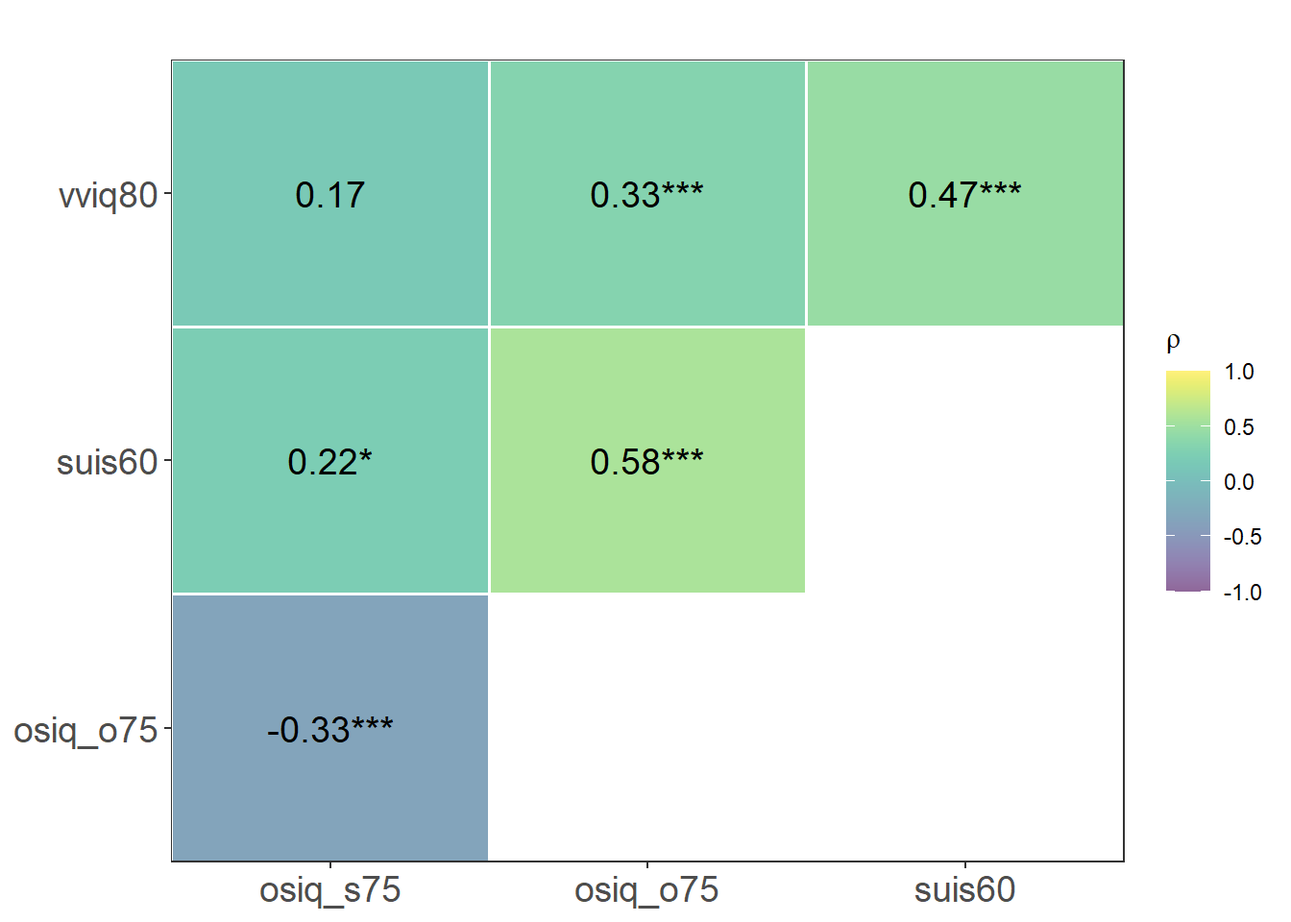
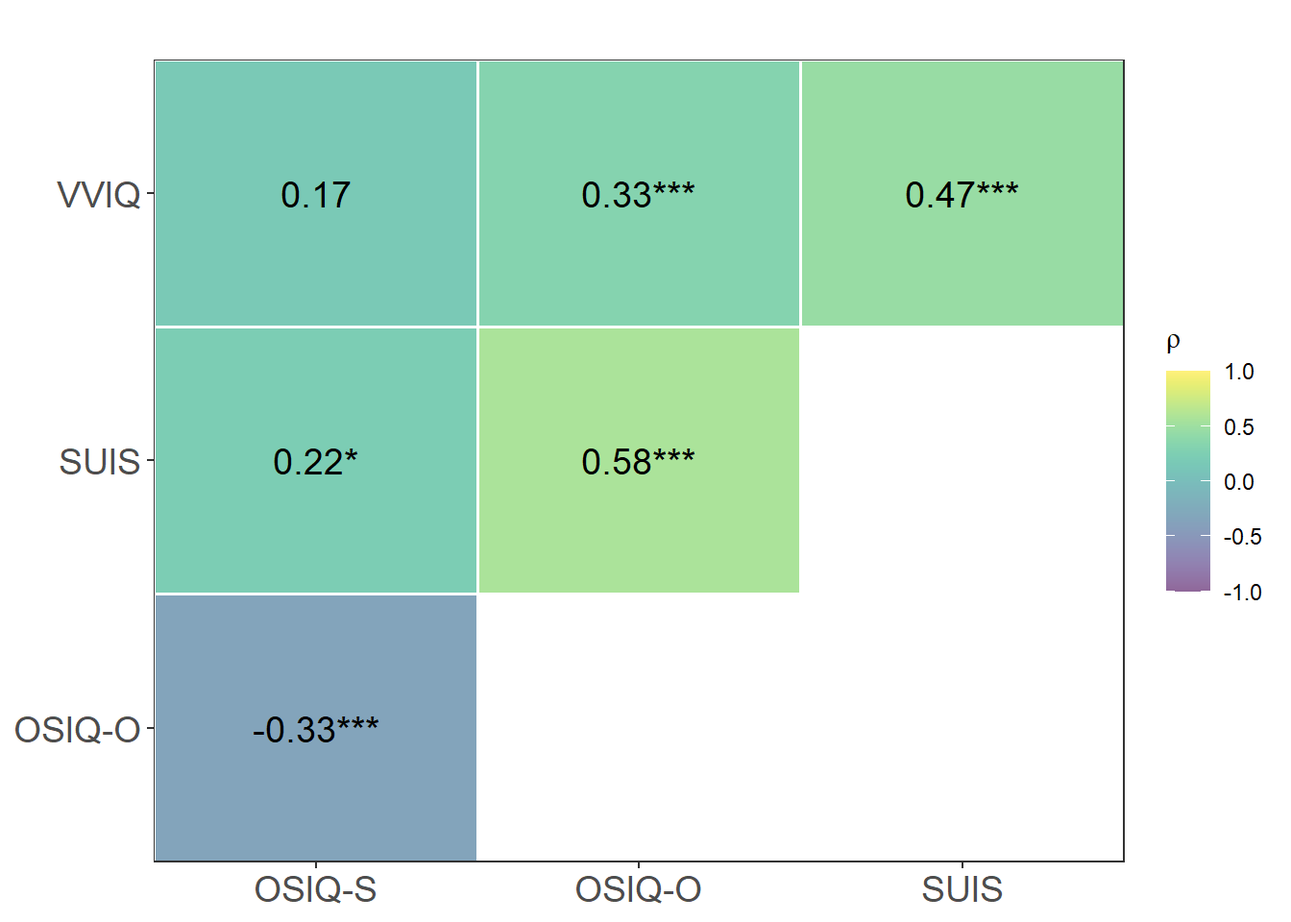
Corr still 230919

diff --git a/aphantasia_priming_analysis.html b/aphantasia_priming_analysis.html
@@ -153,80 +153,79 @@ code span.wa { color: #60a0b0; font-weight: bold; font-style: italic; } /* Warni
 <span id="cb1-16"><a href="#cb1-16" aria-hidden="true" tabindex="-1"></a>  broom,         <span class="co"># tidy modelling</span></span>
 <span id="cb1-17"><a href="#cb1-17" aria-hidden="true" tabindex="-1"></a>  easystats,      <span class="co"># framework for data analysis functions</span></span>
 <span id="cb1-18"><a href="#cb1-18" aria-hidden="true" tabindex="-1"></a>  brms,           <span class="co"># bayesian modeling</span></span>
-<span id="cb1-19"><a href="#cb1-19" aria-hidden="true" tabindex="-1"></a>  corrplot,</span>
-<span id="cb1-20"><a href="#cb1-20" aria-hidden="true" tabindex="-1"></a>  <span class="co"># MASS,           # Box-Cox transformation</span></span>
-<span id="cb1-21"><a href="#cb1-21" aria-hidden="true" tabindex="-1"></a>  <span class="co"># cluster,        # self-explanatory (i.e. cluster analyses)</span></span>
-<span id="cb1-22"><a href="#cb1-22" aria-hidden="true" tabindex="-1"></a>  <span class="co"># mclust,         # mixture clustering</span></span>
-<span id="cb1-23"><a href="#cb1-23" aria-hidden="true" tabindex="-1"></a>  <span class="co"># factoextra,     # multivariate analysis visualization</span></span>
-<span id="cb1-24"><a href="#cb1-24" aria-hidden="true" tabindex="-1"></a>  <span class="co"># FactoMineR,     # multivariate analysis</span></span>
-<span id="cb1-25"><a href="#cb1-25" aria-hidden="true" tabindex="-1"></a>  <span class="co"># rstanarm,       # bayesian models</span></span>
-<span id="cb1-26"><a href="#cb1-26" aria-hidden="true" tabindex="-1"></a>  <span class="co"># BayesFactor,    # self-explanatory (i.e. Bayes Factors)</span></span>
-<span id="cb1-27"><a href="#cb1-27" aria-hidden="true" tabindex="-1"></a>  <span class="co"># --- data visualization/exploration packages:</span></span>
-<span id="cb1-28"><a href="#cb1-28" aria-hidden="true" tabindex="-1"></a>  ggpubr,         <span class="co"># layout and statistics display</span></span>
-<span id="cb1-29"><a href="#cb1-29" aria-hidden="true" tabindex="-1"></a>  <span class="co"># ggradar,        # radar charts</span></span>
-<span id="cb1-30"><a href="#cb1-30" aria-hidden="true" tabindex="-1"></a>  ggsci,          <span class="co"># scientific palettes</span></span>
-<span id="cb1-31"><a href="#cb1-31" aria-hidden="true" tabindex="-1"></a>  wesanderson,    <span class="co"># artistic palettes</span></span>
-<span id="cb1-32"><a href="#cb1-32" aria-hidden="true" tabindex="-1"></a>  viridis,        <span class="co"># colour-blind friendly palettes</span></span>
-<span id="cb1-33"><a href="#cb1-33" aria-hidden="true" tabindex="-1"></a>  tidygraph,</span>
-<span id="cb1-34"><a href="#cb1-34" aria-hidden="true" tabindex="-1"></a>  ggraph,</span>
-<span id="cb1-35"><a href="#cb1-35" aria-hidden="true" tabindex="-1"></a>  <span class="co"># --- tables ---</span></span>
-<span id="cb1-36"><a href="#cb1-36" aria-hidden="true" tabindex="-1"></a>  <span class="co"># qwraps2,        # mean_sd function</span></span>
-<span id="cb1-37"><a href="#cb1-37" aria-hidden="true" tabindex="-1"></a>  <span class="co"># the basics</span></span>
-<span id="cb1-38"><a href="#cb1-38" aria-hidden="true" tabindex="-1"></a>  tidyverse</span>
-<span id="cb1-39"><a href="#cb1-39" aria-hidden="true" tabindex="-1"></a>)</span>
-<span id="cb1-40"><a href="#cb1-40" aria-hidden="true" tabindex="-1"></a></span>
-<span id="cb1-41"><a href="#cb1-41" aria-hidden="true" tabindex="-1"></a><span class="co"># --- Global cosmetic theme ----------------------------------------------------</span></span>
-<span id="cb1-42"><a href="#cb1-42" aria-hidden="true" tabindex="-1"></a><span class="fu">theme_set</span>(</span>
-<span id="cb1-43"><a href="#cb1-43" aria-hidden="true" tabindex="-1"></a>  <span class="fu">theme_bw</span>(</span>
-<span id="cb1-44"><a href="#cb1-44" aria-hidden="true" tabindex="-1"></a>    <span class="at">base_size =</span> <span class="dv">14</span>,</span>
-<span id="cb1-45"><a href="#cb1-45" aria-hidden="true" tabindex="-1"></a>    <span class="co"># base_family = "serif",</span></span>
-<span id="cb1-46"><a href="#cb1-46" aria-hidden="true" tabindex="-1"></a>  )</span>
-<span id="cb1-47"><a href="#cb1-47" aria-hidden="true" tabindex="-1"></a>)</span>
-<span id="cb1-48"><a href="#cb1-48" aria-hidden="true" tabindex="-1"></a></span>
-<span id="cb1-49"><a href="#cb1-49" aria-hidden="true" tabindex="-1"></a><span class="co"># creating colour-blind friendly coulour palettes</span></span>
-<span id="cb1-50"><a href="#cb1-50" aria-hidden="true" tabindex="-1"></a><span class="co"># duo_pal &lt;- c("#003d73", "#889be0")</span></span>
-<span id="cb1-51"><a href="#cb1-51" aria-hidden="true" tabindex="-1"></a><span class="co"># trio_pal &lt;- c("#f2bb7b", "#e57774", "#6c0009")</span></span>
-<span id="cb1-52"><a href="#cb1-52" aria-hidden="true" tabindex="-1"></a><span class="co"># full_pal &lt;- c("#f2bb7b", "#e57774", "#6c0009", "#003d73", "#889be0")</span></span>
-<span id="cb1-53"><a href="#cb1-53" aria-hidden="true" tabindex="-1"></a></span>
-<span id="cb1-54"><a href="#cb1-54" aria-hidden="true" tabindex="-1"></a><span class="co"># table formatting</span></span>
-<span id="cb1-55"><a href="#cb1-55" aria-hidden="true" tabindex="-1"></a><span class="co"># options(qwraps2_markup = "")</span></span>
-<span id="cb1-56"><a href="#cb1-56" aria-hidden="true" tabindex="-1"></a><span class="co"># options(</span></span>
-<span id="cb1-57"><a href="#cb1-57" aria-hidden="true" tabindex="-1"></a><span class="co">#   knitr.kable.NA = '',</span></span>
-<span id="cb1-58"><a href="#cb1-58" aria-hidden="true" tabindex="-1"></a><span class="co">#   knitr.table.format = "markdown")</span></span>
-<span id="cb1-59"><a href="#cb1-59" aria-hidden="true" tabindex="-1"></a></span>
-<span id="cb1-60"><a href="#cb1-60" aria-hidden="true" tabindex="-1"></a><span class="co"># --- Fixing a seed for reproducibility ----------------------------------------</span></span>
-<span id="cb1-61"><a href="#cb1-61" aria-hidden="true" tabindex="-1"></a><span class="fu">set.seed</span>(<span class="dv">14051998</span>)</span>
-<span id="cb1-62"><a href="#cb1-62" aria-hidden="true" tabindex="-1"></a></span>
-<span id="cb1-63"><a href="#cb1-63" aria-hidden="true" tabindex="-1"></a><span class="co"># --- Importing data -----------------------------------------------------------</span></span>
-<span id="cb1-64"><a href="#cb1-64" aria-hidden="true" tabindex="-1"></a></span>
-<span id="cb1-65"><a href="#cb1-65" aria-hidden="true" tabindex="-1"></a><span class="co"># Association task</span></span>
-<span id="cb1-66"><a href="#cb1-66" aria-hidden="true" tabindex="-1"></a>df_asso <span class="ot">&lt;-</span> <span class="fu">read_excel</span>(<span class="st">"data/aphantasia_priming_tidy_data.xlsx"</span>, </span>
-<span id="cb1-67"><a href="#cb1-67" aria-hidden="true" tabindex="-1"></a>                     <span class="at">sheet =</span> <span class="st">"data_asso"</span>)</span>
-<span id="cb1-68"><a href="#cb1-68" aria-hidden="true" tabindex="-1"></a></span>
-<span id="cb1-69"><a href="#cb1-69" aria-hidden="true" tabindex="-1"></a><span class="co"># Implicit task</span></span>
-<span id="cb1-70"><a href="#cb1-70" aria-hidden="true" tabindex="-1"></a>df_implicit <span class="ot">&lt;-</span> <span class="fu">read_excel</span>(<span class="st">"data/aphantasia_priming_tidy_data.xlsx"</span>, </span>
-<span id="cb1-71"><a href="#cb1-71" aria-hidden="true" tabindex="-1"></a>                     <span class="at">sheet =</span> <span class="st">"data_implicit"</span>)</span>
-<span id="cb1-72"><a href="#cb1-72" aria-hidden="true" tabindex="-1"></a></span>
-<span id="cb1-73"><a href="#cb1-73" aria-hidden="true" tabindex="-1"></a><span class="co"># Explicit task</span></span>
-<span id="cb1-74"><a href="#cb1-74" aria-hidden="true" tabindex="-1"></a>df_explicit <span class="ot">&lt;-</span> <span class="fu">read_excel</span>(<span class="st">"data/aphantasia_priming_tidy_data.xlsx"</span>, </span>
-<span id="cb1-75"><a href="#cb1-75" aria-hidden="true" tabindex="-1"></a>                     <span class="at">sheet =</span> <span class="st">"data_explicit"</span>)</span>
-<span id="cb1-76"><a href="#cb1-76" aria-hidden="true" tabindex="-1"></a></span>
-<span id="cb1-77"><a href="#cb1-77" aria-hidden="true" tabindex="-1"></a><span class="co"># Rotation task</span></span>
-<span id="cb1-78"><a href="#cb1-78" aria-hidden="true" tabindex="-1"></a>df_rotation <span class="ot">&lt;-</span> <span class="fu">read_excel</span>(<span class="st">"data/aphantasia_priming_tidy_data.xlsx"</span>, </span>
-<span id="cb1-79"><a href="#cb1-79" aria-hidden="true" tabindex="-1"></a>                     <span class="at">sheet =</span> <span class="st">"data_rotation"</span>)</span>
-<span id="cb1-80"><a href="#cb1-80" aria-hidden="true" tabindex="-1"></a></span>
-<span id="cb1-81"><a href="#cb1-81" aria-hidden="true" tabindex="-1"></a><span class="co"># Questionnaires</span></span>
-<span id="cb1-82"><a href="#cb1-82" aria-hidden="true" tabindex="-1"></a>df_questionnaires <span class="ot">&lt;-</span> <span class="fu">read_excel</span>(<span class="st">"data/aphantasia_priming_tidy_data.xlsx"</span>, </span>
-<span id="cb1-83"><a href="#cb1-83" aria-hidden="true" tabindex="-1"></a>                     <span class="at">sheet =</span> <span class="st">"data_questionnaires"</span>)</span></code><button title="Copy to Clipboard" class="code-copy-button"><i class="bi"></i></button></pre></div>
+<span id="cb1-19"><a href="#cb1-19" aria-hidden="true" tabindex="-1"></a>  <span class="co"># MASS,           # Box-Cox transformation</span></span>
+<span id="cb1-20"><a href="#cb1-20" aria-hidden="true" tabindex="-1"></a>  <span class="co"># cluster,        # self-explanatory (i.e. cluster analyses)</span></span>
+<span id="cb1-21"><a href="#cb1-21" aria-hidden="true" tabindex="-1"></a>  <span class="co"># mclust,         # mixture clustering</span></span>
+<span id="cb1-22"><a href="#cb1-22" aria-hidden="true" tabindex="-1"></a>  <span class="co"># factoextra,     # multivariate analysis visualization</span></span>
+<span id="cb1-23"><a href="#cb1-23" aria-hidden="true" tabindex="-1"></a>  <span class="co"># FactoMineR,     # multivariate analysis</span></span>
+<span id="cb1-24"><a href="#cb1-24" aria-hidden="true" tabindex="-1"></a>  <span class="co"># rstanarm,       # bayesian models</span></span>
+<span id="cb1-25"><a href="#cb1-25" aria-hidden="true" tabindex="-1"></a>  <span class="co"># BayesFactor,    # self-explanatory (i.e. Bayes Factors)</span></span>
+<span id="cb1-26"><a href="#cb1-26" aria-hidden="true" tabindex="-1"></a>  <span class="co"># --- data visualization/exploration packages:</span></span>
+<span id="cb1-27"><a href="#cb1-27" aria-hidden="true" tabindex="-1"></a>  ggpubr,         <span class="co"># layout and statistics display</span></span>
+<span id="cb1-28"><a href="#cb1-28" aria-hidden="true" tabindex="-1"></a>  <span class="co"># ggradar,        # radar charts</span></span>
+<span id="cb1-29"><a href="#cb1-29" aria-hidden="true" tabindex="-1"></a>  ggsci,          <span class="co"># scientific palettes</span></span>
+<span id="cb1-30"><a href="#cb1-30" aria-hidden="true" tabindex="-1"></a>  wesanderson,    <span class="co"># artistic palettes</span></span>
+<span id="cb1-31"><a href="#cb1-31" aria-hidden="true" tabindex="-1"></a>  viridis,        <span class="co"># colour-blind friendly palettes</span></span>
+<span id="cb1-32"><a href="#cb1-32" aria-hidden="true" tabindex="-1"></a>  tidygraph,</span>
+<span id="cb1-33"><a href="#cb1-33" aria-hidden="true" tabindex="-1"></a>  ggraph,</span>
+<span id="cb1-34"><a href="#cb1-34" aria-hidden="true" tabindex="-1"></a>  <span class="co"># --- tables ---</span></span>
+<span id="cb1-35"><a href="#cb1-35" aria-hidden="true" tabindex="-1"></a>  <span class="co"># qwraps2,        # mean_sd function</span></span>
+<span id="cb1-36"><a href="#cb1-36" aria-hidden="true" tabindex="-1"></a>  <span class="co"># the basics</span></span>
+<span id="cb1-37"><a href="#cb1-37" aria-hidden="true" tabindex="-1"></a>  tidyverse</span>
+<span id="cb1-38"><a href="#cb1-38" aria-hidden="true" tabindex="-1"></a>)</span>
+<span id="cb1-39"><a href="#cb1-39" aria-hidden="true" tabindex="-1"></a></span>
+<span id="cb1-40"><a href="#cb1-40" aria-hidden="true" tabindex="-1"></a><span class="co"># --- Global cosmetic theme ----------------------------------------------------</span></span>
+<span id="cb1-41"><a href="#cb1-41" aria-hidden="true" tabindex="-1"></a><span class="fu">theme_set</span>(</span>
+<span id="cb1-42"><a href="#cb1-42" aria-hidden="true" tabindex="-1"></a>  <span class="fu">theme_bw</span>(</span>
+<span id="cb1-43"><a href="#cb1-43" aria-hidden="true" tabindex="-1"></a>    <span class="at">base_size =</span> <span class="dv">14</span>,</span>
+<span id="cb1-44"><a href="#cb1-44" aria-hidden="true" tabindex="-1"></a>    <span class="co"># base_family = "serif",</span></span>
+<span id="cb1-45"><a href="#cb1-45" aria-hidden="true" tabindex="-1"></a>  )</span>
+<span id="cb1-46"><a href="#cb1-46" aria-hidden="true" tabindex="-1"></a>)</span>
+<span id="cb1-47"><a href="#cb1-47" aria-hidden="true" tabindex="-1"></a></span>
+<span id="cb1-48"><a href="#cb1-48" aria-hidden="true" tabindex="-1"></a><span class="co"># creating colour-blind friendly coulour palettes</span></span>
+<span id="cb1-49"><a href="#cb1-49" aria-hidden="true" tabindex="-1"></a><span class="co"># duo_pal &lt;- c("#003d73", "#889be0")</span></span>
+<span id="cb1-50"><a href="#cb1-50" aria-hidden="true" tabindex="-1"></a><span class="co"># trio_pal &lt;- c("#f2bb7b", "#e57774", "#6c0009")</span></span>
+<span id="cb1-51"><a href="#cb1-51" aria-hidden="true" tabindex="-1"></a><span class="co"># full_pal &lt;- c("#f2bb7b", "#e57774", "#6c0009", "#003d73", "#889be0")</span></span>
+<span id="cb1-52"><a href="#cb1-52" aria-hidden="true" tabindex="-1"></a></span>
+<span id="cb1-53"><a href="#cb1-53" aria-hidden="true" tabindex="-1"></a><span class="co"># table formatting</span></span>
+<span id="cb1-54"><a href="#cb1-54" aria-hidden="true" tabindex="-1"></a><span class="co"># options(qwraps2_markup = "")</span></span>
+<span id="cb1-55"><a href="#cb1-55" aria-hidden="true" tabindex="-1"></a><span class="co"># options(</span></span>
+<span id="cb1-56"><a href="#cb1-56" aria-hidden="true" tabindex="-1"></a><span class="co">#   knitr.kable.NA = '',</span></span>
+<span id="cb1-57"><a href="#cb1-57" aria-hidden="true" tabindex="-1"></a><span class="co">#   knitr.table.format = "markdown")</span></span>
+<span id="cb1-58"><a href="#cb1-58" aria-hidden="true" tabindex="-1"></a></span>
+<span id="cb1-59"><a href="#cb1-59" aria-hidden="true" tabindex="-1"></a><span class="co"># --- Fixing a seed for reproducibility ----------------------------------------</span></span>
+<span id="cb1-60"><a href="#cb1-60" aria-hidden="true" tabindex="-1"></a><span class="fu">set.seed</span>(<span class="dv">14051998</span>)</span>
+<span id="cb1-61"><a href="#cb1-61" aria-hidden="true" tabindex="-1"></a></span>
+<span id="cb1-62"><a href="#cb1-62" aria-hidden="true" tabindex="-1"></a><span class="co"># --- Importing data -----------------------------------------------------------</span></span>
+<span id="cb1-63"><a href="#cb1-63" aria-hidden="true" tabindex="-1"></a></span>
+<span id="cb1-64"><a href="#cb1-64" aria-hidden="true" tabindex="-1"></a><span class="co"># Association task</span></span>
+<span id="cb1-65"><a href="#cb1-65" aria-hidden="true" tabindex="-1"></a>df_asso <span class="ot">&lt;-</span> <span class="fu">read_excel</span>(<span class="st">"data/aphantasia_priming_tidy_data.xlsx"</span>, </span>
+<span id="cb1-66"><a href="#cb1-66" aria-hidden="true" tabindex="-1"></a>                     <span class="at">sheet =</span> <span class="st">"data_asso"</span>)</span>
+<span id="cb1-67"><a href="#cb1-67" aria-hidden="true" tabindex="-1"></a></span>
+<span id="cb1-68"><a href="#cb1-68" aria-hidden="true" tabindex="-1"></a><span class="co"># Implicit task</span></span>
+<span id="cb1-69"><a href="#cb1-69" aria-hidden="true" tabindex="-1"></a>df_implicit <span class="ot">&lt;-</span> <span class="fu">read_excel</span>(<span class="st">"data/aphantasia_priming_tidy_data.xlsx"</span>, </span>
+<span id="cb1-70"><a href="#cb1-70" aria-hidden="true" tabindex="-1"></a>                     <span class="at">sheet =</span> <span class="st">"data_implicit"</span>)</span>
+<span id="cb1-71"><a href="#cb1-71" aria-hidden="true" tabindex="-1"></a></span>
+<span id="cb1-72"><a href="#cb1-72" aria-hidden="true" tabindex="-1"></a><span class="co"># Explicit task</span></span>
+<span id="cb1-73"><a href="#cb1-73" aria-hidden="true" tabindex="-1"></a>df_explicit <span class="ot">&lt;-</span> <span class="fu">read_excel</span>(<span class="st">"data/aphantasia_priming_tidy_data.xlsx"</span>, </span>
+<span id="cb1-74"><a href="#cb1-74" aria-hidden="true" tabindex="-1"></a>                     <span class="at">sheet =</span> <span class="st">"data_explicit"</span>)</span>
+<span id="cb1-75"><a href="#cb1-75" aria-hidden="true" tabindex="-1"></a></span>
+<span id="cb1-76"><a href="#cb1-76" aria-hidden="true" tabindex="-1"></a><span class="co"># Rotation task</span></span>
+<span id="cb1-77"><a href="#cb1-77" aria-hidden="true" tabindex="-1"></a>df_rotation <span class="ot">&lt;-</span> <span class="fu">read_excel</span>(<span class="st">"data/aphantasia_priming_tidy_data.xlsx"</span>, </span>
+<span id="cb1-78"><a href="#cb1-78" aria-hidden="true" tabindex="-1"></a>                     <span class="at">sheet =</span> <span class="st">"data_rotation"</span>)</span>
+<span id="cb1-79"><a href="#cb1-79" aria-hidden="true" tabindex="-1"></a></span>
+<span id="cb1-80"><a href="#cb1-80" aria-hidden="true" tabindex="-1"></a><span class="co"># Questionnaires</span></span>
+<span id="cb1-81"><a href="#cb1-81" aria-hidden="true" tabindex="-1"></a>df_questionnaires <span class="ot">&lt;-</span> <span class="fu">read_excel</span>(<span class="st">"data/aphantasia_priming_tidy_data.xlsx"</span>, </span>
+<span id="cb1-82"><a href="#cb1-82" aria-hidden="true" tabindex="-1"></a>                     <span class="at">sheet =</span> <span class="st">"data_questionnaires"</span>)</span></code><button title="Copy to Clipboard" class="code-copy-button"><i class="bi"></i></button></pre></div>
 </details>
 </div>
 <section id="exploratory-data-analysis" class="level2">
 <h2 class="anchored" data-anchor-id="exploratory-data-analysis">Exploratory Data Analysis</h2>
-<p>The four questionnaire variables (VVIQ, OSIQ-O and S, and SUIS) are meant to be used as predictors (independent variables) for the behavioural outcomes (dependent variables, RTs and potentially accuracy) of the study. Three of these - VVIQ, OSIQ-O and SUIS - evaluate visual imagery: as such, in a view of parsimony, we are going to evaluate the correlation between these continuous predictors and judge if they should be merged/omitted. The results of the Bayesian Pearson correlations between the four variables are displayed in <a href="#fig-cor_matrix">Figure&nbsp;1</a> and <a href="#tbl-cor_stats">Table&nbsp;1</a>.</p>
+<p>The four questionnaire variables (VVIQ, OSIQ-O and S, and SUIS) are meant to be used as predictors (independent variables) for the behavioural outcomes (dependent variables, RTs and potentially accuracy) of the study. Three of these - VVIQ, OSIQ-O and SUIS - evaluate visual imagery: as such, in a view of parsimony, we are going to evaluate the correlation between these continuous predictors and judge if they should be merged/omitted. The results of the Bayesian partial correlations between the four variables are displayed in <a href="#fig-cor_matrix">Figure&nbsp;1</a> and <a href="#tbl-cor_stats">Table&nbsp;1</a>. Partial correlations have been chosen here to account for the (theoretically huge) covariance between visual imagery variables. It will result in a more conservative estimations of the correlations, and a better understanding of the relations between visual and spatial imagery measures.</p>
 <div class="cell">
 <details>
 <summary>Code</summary>
-<div class="sourceCode cell-code" id="cb2"><pre class="sourceCode r code-with-copy"><code class="sourceCode r"><span id="cb2-1"><a href="#cb2-1" aria-hidden="true" tabindex="-1"></a><span class="co"># Bayesian Pearson correlation between questionnaire scores</span></span>
+<div class="sourceCode cell-code" id="cb2"><pre class="sourceCode r code-with-copy"><code class="sourceCode r"><span id="cb2-1"><a href="#cb2-1" aria-hidden="true" tabindex="-1"></a><span class="co"># --- Bayesian Pearson correlation between questionnaire scores ----------------</span></span>
 <span id="cb2-2"><a href="#cb2-2" aria-hidden="true" tabindex="-1"></a>cor_questionnaires <span class="ot">&lt;-</span></span>
 <span id="cb2-3"><a href="#cb2-3" aria-hidden="true" tabindex="-1"></a>  df_questionnaires <span class="sc">%&gt;%</span></span>
 <span id="cb2-4"><a href="#cb2-4" aria-hidden="true" tabindex="-1"></a>  <span class="fu">correlation</span>(</span>
@@ -238,24 +237,37 @@ code span.wa { color: #60a0b0; font-weight: bold; font-style: italic; } /* Warni
 <span id="cb2-10"><a href="#cb2-10" aria-hidden="true" tabindex="-1"></a>    <span class="at">bayesian_test =</span> <span class="st">"bf"</span></span>
 <span id="cb2-11"><a href="#cb2-11" aria-hidden="true" tabindex="-1"></a>    )</span>
 <span id="cb2-12"><a href="#cb2-12" aria-hidden="true" tabindex="-1"></a></span>
-<span id="cb2-13"><a href="#cb2-13" aria-hidden="true" tabindex="-1"></a>cor_questionnaires <span class="sc">%&gt;%</span></span>
-<span id="cb2-14"><a href="#cb2-14" aria-hidden="true" tabindex="-1"></a>  <span class="fu">summary</span>(<span class="at">digits =</span> <span class="dv">2</span>) <span class="sc">%&gt;%</span> </span>
-<span id="cb2-15"><a href="#cb2-15" aria-hidden="true" tabindex="-1"></a>  <span class="fu">plot</span>(</span>
-<span id="cb2-16"><a href="#cb2-16" aria-hidden="true" tabindex="-1"></a>    <span class="at">text =</span> <span class="fu">list</span>(<span class="at">size =</span> <span class="dv">5</span>),</span>
-<span id="cb2-17"><a href="#cb2-17" aria-hidden="true" tabindex="-1"></a>    <span class="at">labs =</span> <span class="fu">list</span>(<span class="at">title =</span> <span class="st">""</span>)</span>
-<span id="cb2-18"><a href="#cb2-18" aria-hidden="true" tabindex="-1"></a>    ) <span class="sc">+</span></span>
-<span id="cb2-19"><a href="#cb2-19" aria-hidden="true" tabindex="-1"></a>  <span class="fu">scale_fill_viridis</span>(</span>
-<span id="cb2-20"><a href="#cb2-20" aria-hidden="true" tabindex="-1"></a>    <span class="at">option =</span> <span class="st">"D"</span>,</span>
-<span id="cb2-21"><a href="#cb2-21" aria-hidden="true" tabindex="-1"></a>    <span class="at">name =</span> <span class="fu">expression</span>(rho),</span>
-<span id="cb2-22"><a href="#cb2-22" aria-hidden="true" tabindex="-1"></a>    <span class="at">alpha =</span> .<span class="dv">6</span>,</span>
-<span id="cb2-23"><a href="#cb2-23" aria-hidden="true" tabindex="-1"></a>    <span class="at">direction =</span> <span class="dv">1</span>,</span>
-<span id="cb2-24"><a href="#cb2-24" aria-hidden="true" tabindex="-1"></a>    <span class="at">limits =</span> <span class="fu">c</span>(<span class="sc">-</span><span class="dv">1</span>,<span class="dv">1</span>)</span>
-<span id="cb2-25"><a href="#cb2-25" aria-hidden="true" tabindex="-1"></a>    ) <span class="sc">+</span></span>
-<span id="cb2-26"><a href="#cb2-26" aria-hidden="true" tabindex="-1"></a>  <span class="fu">theme_bw</span>() <span class="sc">+</span></span>
-<span id="cb2-27"><a href="#cb2-27" aria-hidden="true" tabindex="-1"></a>  <span class="fu">theme</span>(</span>
-<span id="cb2-28"><a href="#cb2-28" aria-hidden="true" tabindex="-1"></a>    <span class="at">panel.grid =</span> <span class="fu">element_blank</span>(),</span>
-<span id="cb2-29"><a href="#cb2-29" aria-hidden="true" tabindex="-1"></a>    <span class="at">axis.text =</span> <span class="fu">element_text</span>(<span class="at">size =</span> <span class="dv">14</span>)</span>
-<span id="cb2-30"><a href="#cb2-30" aria-hidden="true" tabindex="-1"></a>    )</span></code><button title="Copy to Clipboard" class="code-copy-button"><i class="bi"></i></button></pre></div>
+<span id="cb2-13"><a href="#cb2-13" aria-hidden="true" tabindex="-1"></a><span class="co"># --- Correlation matrix -------------------------------------------------------</span></span>
+<span id="cb2-14"><a href="#cb2-14" aria-hidden="true" tabindex="-1"></a>cor_questionnaires <span class="sc">%&gt;%</span></span>
+<span id="cb2-15"><a href="#cb2-15" aria-hidden="true" tabindex="-1"></a>  <span class="fu">mutate</span>(<span class="at">Parameter1 =</span> <span class="fu">case_when</span>(</span>
+<span id="cb2-16"><a href="#cb2-16" aria-hidden="true" tabindex="-1"></a>    Parameter1 <span class="sc">==</span> <span class="st">"vviq80"</span> <span class="sc">~</span> <span class="st">"VVIQ"</span>,</span>
+<span id="cb2-17"><a href="#cb2-17" aria-hidden="true" tabindex="-1"></a>    Parameter1 <span class="sc">==</span> <span class="st">"suis60"</span> <span class="sc">~</span> <span class="st">"SUIS"</span>,</span>
+<span id="cb2-18"><a href="#cb2-18" aria-hidden="true" tabindex="-1"></a>    Parameter1 <span class="sc">==</span> <span class="st">"osiq_o75"</span> <span class="sc">~</span> <span class="st">"OSIQ-O"</span>,</span>
+<span id="cb2-19"><a href="#cb2-19" aria-hidden="true" tabindex="-1"></a>    Parameter1 <span class="sc">==</span> <span class="st">"osiq_s75"</span> <span class="sc">~</span> <span class="st">"OSIQ-S"</span></span>
+<span id="cb2-20"><a href="#cb2-20" aria-hidden="true" tabindex="-1"></a>  )) <span class="sc">%&gt;%</span> </span>
+<span id="cb2-21"><a href="#cb2-21" aria-hidden="true" tabindex="-1"></a>  <span class="fu">mutate</span>(<span class="at">Parameter2 =</span> <span class="fu">case_when</span>(</span>
+<span id="cb2-22"><a href="#cb2-22" aria-hidden="true" tabindex="-1"></a>    Parameter2 <span class="sc">==</span> <span class="st">"vviq80"</span> <span class="sc">~</span> <span class="st">"VVIQ"</span>,</span>
+<span id="cb2-23"><a href="#cb2-23" aria-hidden="true" tabindex="-1"></a>    Parameter2 <span class="sc">==</span> <span class="st">"suis60"</span> <span class="sc">~</span> <span class="st">"SUIS"</span>,</span>
+<span id="cb2-24"><a href="#cb2-24" aria-hidden="true" tabindex="-1"></a>    Parameter2 <span class="sc">==</span> <span class="st">"osiq_o75"</span> <span class="sc">~</span> <span class="st">"OSIQ-O"</span>,</span>
+<span id="cb2-25"><a href="#cb2-25" aria-hidden="true" tabindex="-1"></a>    Parameter2 <span class="sc">==</span> <span class="st">"osiq_s75"</span> <span class="sc">~</span> <span class="st">"OSIQ-S"</span></span>
+<span id="cb2-26"><a href="#cb2-26" aria-hidden="true" tabindex="-1"></a>  )) <span class="sc">%&gt;%</span> </span>
+<span id="cb2-27"><a href="#cb2-27" aria-hidden="true" tabindex="-1"></a>  <span class="fu">summary</span>(<span class="at">digits =</span> <span class="dv">2</span>) <span class="sc">%&gt;%</span> </span>
+<span id="cb2-28"><a href="#cb2-28" aria-hidden="true" tabindex="-1"></a>  <span class="fu">plot</span>(</span>
+<span id="cb2-29"><a href="#cb2-29" aria-hidden="true" tabindex="-1"></a>    <span class="at">text =</span> <span class="fu">list</span>(<span class="at">size =</span> <span class="dv">5</span>),</span>
+<span id="cb2-30"><a href="#cb2-30" aria-hidden="true" tabindex="-1"></a>    <span class="at">labs =</span> <span class="fu">list</span>(<span class="at">title =</span> <span class="st">""</span>)</span>
+<span id="cb2-31"><a href="#cb2-31" aria-hidden="true" tabindex="-1"></a>    ) <span class="sc">+</span></span>
+<span id="cb2-32"><a href="#cb2-32" aria-hidden="true" tabindex="-1"></a>  <span class="fu">scale_fill_viridis</span>(</span>
+<span id="cb2-33"><a href="#cb2-33" aria-hidden="true" tabindex="-1"></a>    <span class="at">option =</span> <span class="st">"D"</span>,</span>
+<span id="cb2-34"><a href="#cb2-34" aria-hidden="true" tabindex="-1"></a>    <span class="at">name =</span> <span class="fu">expression</span>(rho),</span>
+<span id="cb2-35"><a href="#cb2-35" aria-hidden="true" tabindex="-1"></a>    <span class="at">alpha =</span> .<span class="dv">6</span>,</span>
+<span id="cb2-36"><a href="#cb2-36" aria-hidden="true" tabindex="-1"></a>    <span class="at">direction =</span> <span class="dv">1</span>,</span>
+<span id="cb2-37"><a href="#cb2-37" aria-hidden="true" tabindex="-1"></a>    <span class="at">limits =</span> <span class="fu">c</span>(<span class="sc">-</span><span class="dv">1</span>,<span class="dv">1</span>)</span>
+<span id="cb2-38"><a href="#cb2-38" aria-hidden="true" tabindex="-1"></a>    ) <span class="sc">+</span></span>
+<span id="cb2-39"><a href="#cb2-39" aria-hidden="true" tabindex="-1"></a>  <span class="fu">theme_bw</span>() <span class="sc">+</span></span>
+<span id="cb2-40"><a href="#cb2-40" aria-hidden="true" tabindex="-1"></a>  <span class="fu">theme</span>(</span>
+<span id="cb2-41"><a href="#cb2-41" aria-hidden="true" tabindex="-1"></a>    <span class="at">panel.grid =</span> <span class="fu">element_blank</span>(),</span>
+<span id="cb2-42"><a href="#cb2-42" aria-hidden="true" tabindex="-1"></a>    <span class="at">axis.text =</span> <span class="fu">element_text</span>(<span class="at">size =</span> <span class="dv">14</span>)</span>
+<span id="cb2-43"><a href="#cb2-43" aria-hidden="true" tabindex="-1"></a>    )</span></code><button title="Copy to Clipboard" class="code-copy-button"><i class="bi"></i></button></pre></div>
 </details>
 <div class="cell-output-display">
 <div id="fig-cor_matrix" class="quarto-figure quarto-figure-center anchored">
